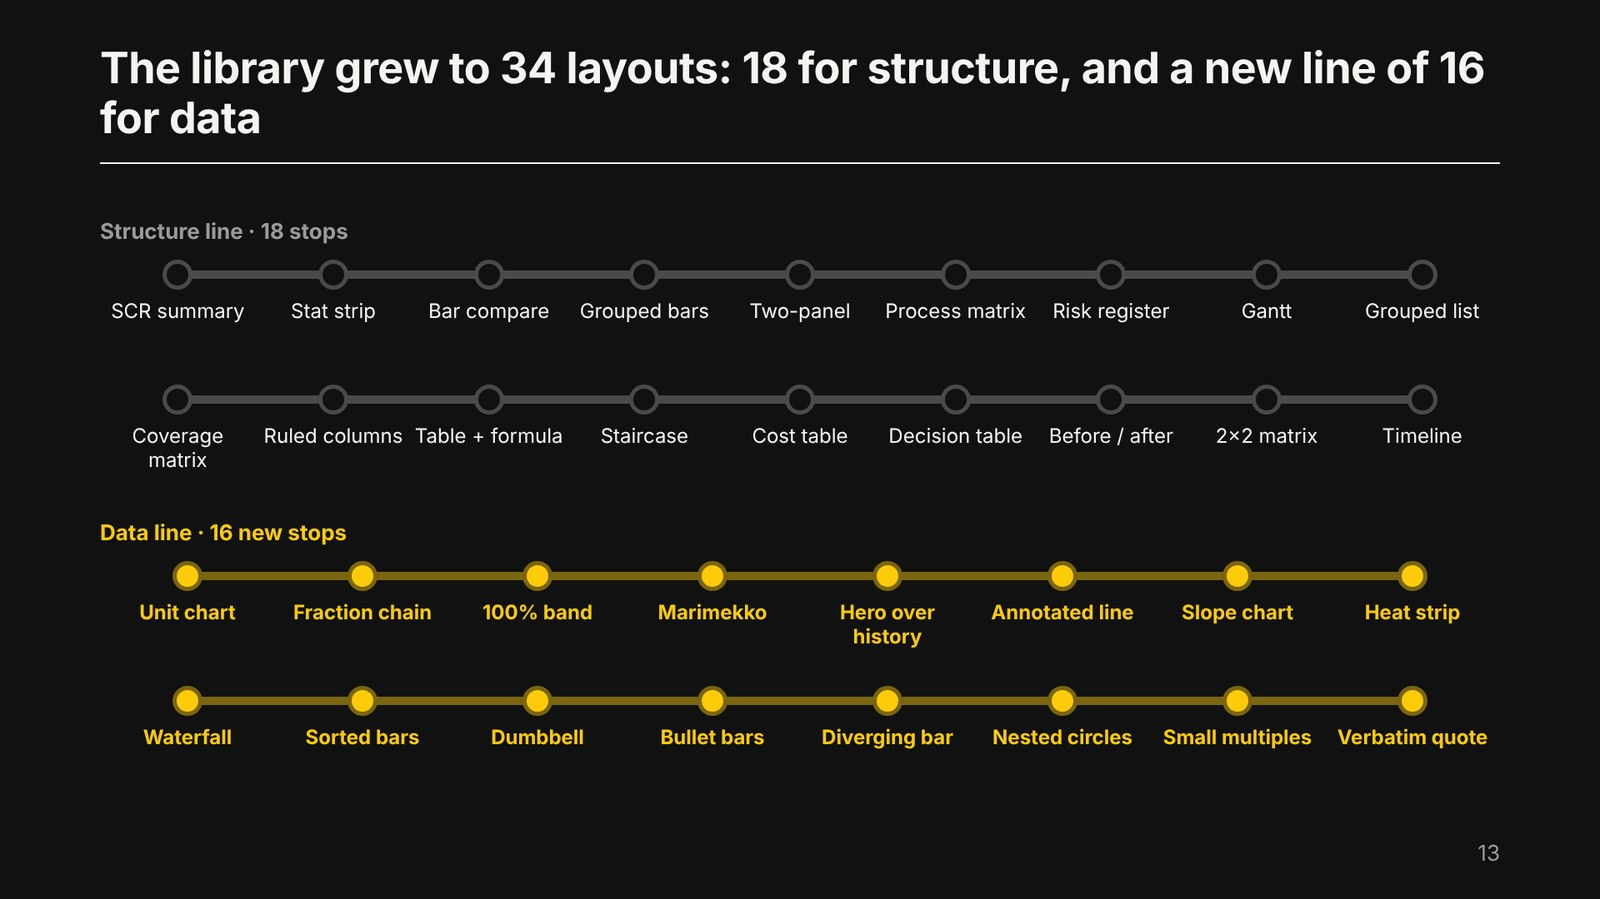
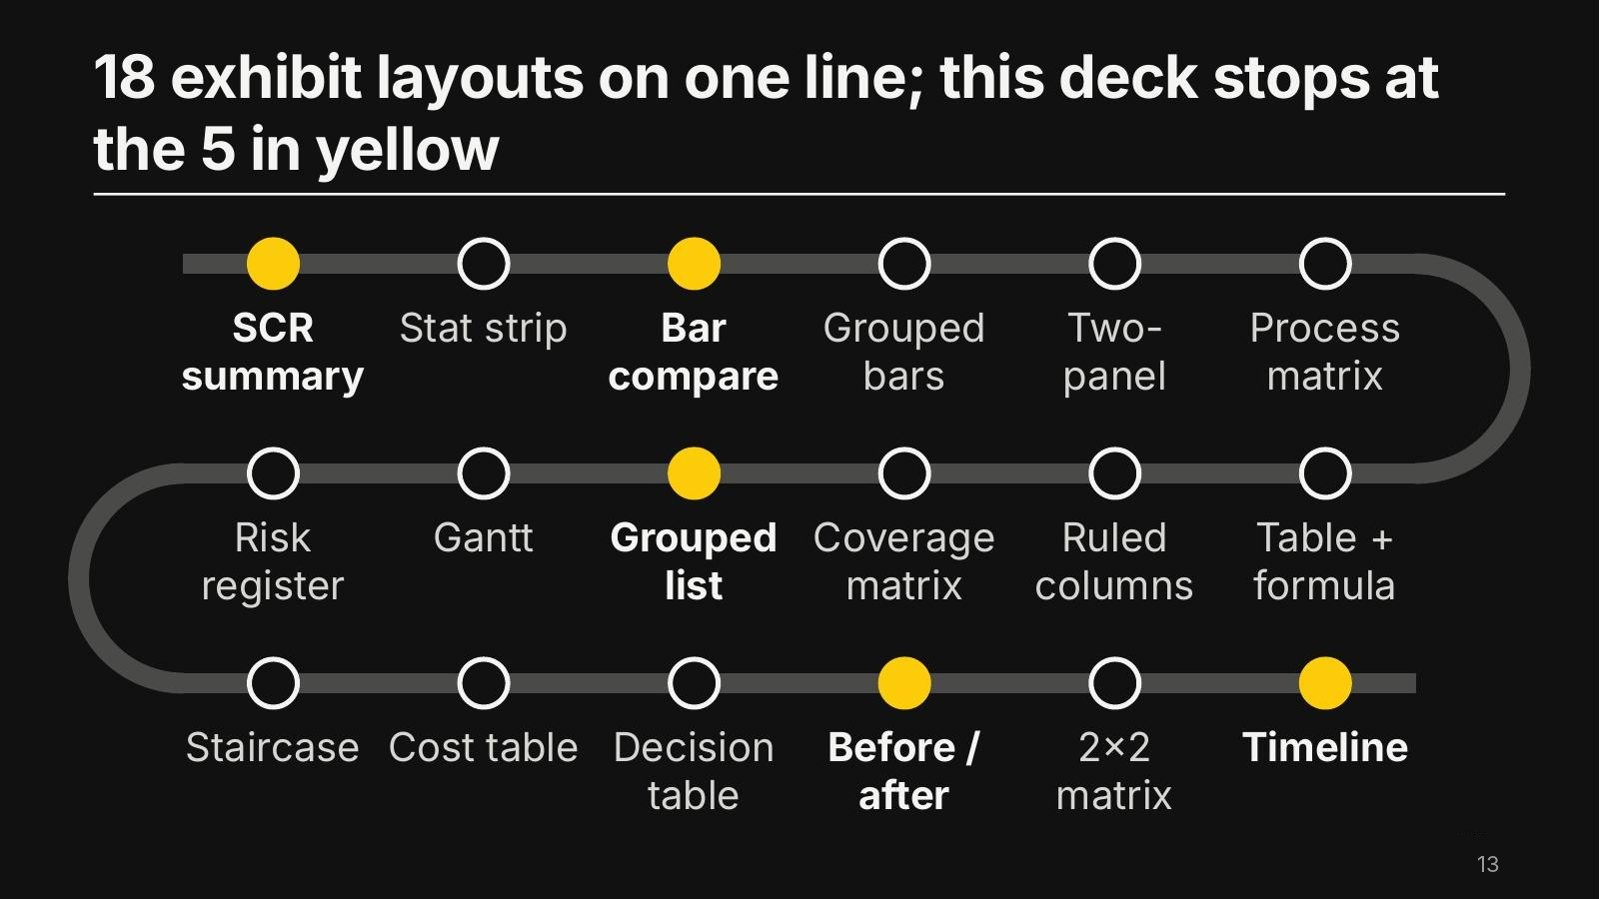
Keep the original library map and donut slides, with counts updated for 21 slides
Claude-Session: https://claude.ai/code/session_01U13sFkcSar7sSzKZgBnu4i

diff --git a/js/about-play.js b/js/about-play.js
@@ -51,7 +51,7 @@ const PROJECTS = [
     ["/deck3/k-10.jpg", "Every number needs a comparison"],
     ["/deck3/k-11.jpg", "03 · Pick the exhibit"],
     ["/deck3/k-12.jpg", "Pick the job, then the exhibit"],
-    ["/deck3/k-13.jpg", "34 layouts on two lines"],
+    ["/deck3/k-13.jpg", "18 layouts on one line"],
     ["/deck3/k-14.jpg", "A big number is also a chart"],
     ["/deck3/k-15.jpg", "Bars drawn to scale"],
     ["/deck3/k-16.jpg", "04 · Keep it honest"],
